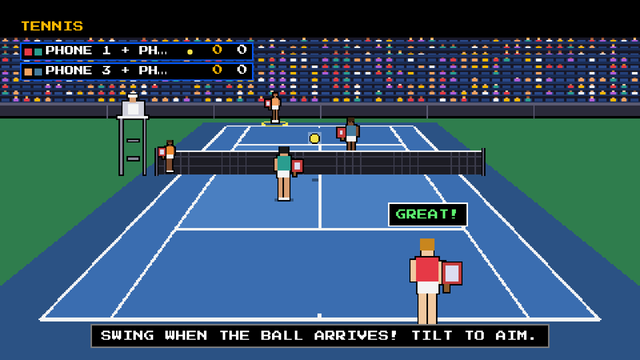
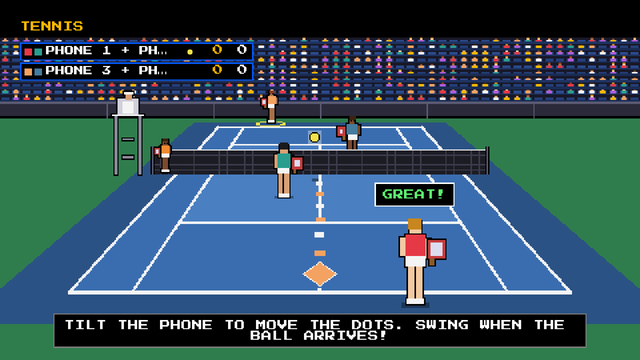
Tennis: keep players on screen, show a live aim line
The camera sits further back and the run target is limited, so a player
who hits from far out or far behind the baseline stays visible. The
hitter and the server get a line of dots in their color that follows the
tilt of the phone and ends in a diamond where the ball will go. The two
hint lines now mention the dots (strings to review).

Claude-Session: https://claude.ai/code/session_01TFZRSoXgdb1W1mAUKaeDEb

diff --git a/docs/games/tennis.md b/docs/games/tennis.md
@@ -35,7 +35,7 @@ Teams and court
 | REQ-TN-1 | 1 player: the player plays a rally with the ball machine (a friendly pink box at the far end). 2 players: 1 against 1. 3 players: 2 against 1 on the **regular court**, with the same court as 4 players (no smaller court for the single player). 4 players: 2 against 2. With 3 players the single player changes after every game, so that each player is alone in turn. Slots are put in teams by their order. | Done | tennis_rules, smoke_tennis |
 | REQ-TN-2 | The court is a doubles court seen from behind the near baseline, in perspective, with the real lines: outer doubles sidelines, inner singles sidelines, baselines, service lines, the center service line and center marks. The net, a referee tower with an umpire at the net, one ball kid at the net post and stands with seats behind the far end (blank ad boards). | Device | smoke_tennis, Test 25 |
 | REQ-TN-3 | The near team is drawn large and seen from behind, the far team is small and faces the camera. The ball has a thin black border and a shadow on the court so that its landing place can be seen. | Device | Test 25 |
-| REQ-TN-4 | A character runs by itself to the place where the ball will land. The player does not move it (REQ-GM-82). A ball is **in** when it lands inside the lines of the court that apply (singles lines for 1 against 1 and for the rally, doubles lines for 2 players on a side). | Done | tennis_rules |
+| REQ-TN-4 | A character runs by itself to the place where the ball will land. The player does not move it (REQ-GM-82). A character never leaves the picture: the court is seen from far enough behind the baseline that a player who hits from 2.2 m behind it or 5.6 m out is fully visible, and the run target is limited to that area (the swing still counts, the hit window is by time). A ball is **in** when it lands inside the lines of the court that apply (singles lines for 1 against 1 and for the rally, doubles lines for 2 players on a side). | Done | tennis_rules |
 
 Hits and serve
 
@@ -45,7 +45,13 @@ Hits and serve
 | REQ-TN-6 | The hit zone has 3 parts by time: early, green and late. A swing in the green part is a fast shot with sparks. An early or a late swing is a slow, high lob that stays in play (REQ-GM-83). The width of the green part comes from the difficulty (REQ-TN-18). | Device | tennis_rules, Test 25 |
 | REQ-TN-7 | Swing speed sets the power. The tilt of the phone at the moment of the hit sets left or right. A weak swing gives a short slow ball, a strong swing a long fast ball. A ball can be too long (out): a strong swing with a bad tilt may land out, a weak one never does on Easy. | Device | tennis_rules, Test 25 |
 | REQ-TN-9 | Serve: the server presses A to toss the ball up and then swings the phone **from top to bottom**, like a real serve. The swing counts when the ball is high (the serve window). The serve window is the time around the top of the toss (0.45 s each side). When the server does not swing in it, the ball falls (about 1 s after the toss) and the server tosses again (no fault, no point lost). A serve must land in the service box across the net. A serve that lands out is repeated once, then the point goes to the other team. | Device | tennis_rules, smoke_tennis, Test 25 |
-| REQ-TN-8 | Phone: the swing is the only action to hit. A tosses the ball (serve only). B does nothing. RECENTER recenters the tilt (REQ-GM-37). A hit buzzes the phone (30 ms, a fast shot 60 ms). The hint is one line at the bottom for the first 16 s: `tennis.hint_serve` while a serve is due, `tennis.hint_hit` in a rally, `tennis.hint_solo` with 1 player (rows of `strings.csv`, to be reviewed by the user). A hit buzzes the phone. | Device | smoke_tennis, Test 25 |
+| REQ-TN-8 | Phone: the swing is the only action to hit. A tosses the ball (serve only). B does nothing. RECENTER recenters the tilt (REQ-GM-37). A hit buzzes the phone (30 ms, a fast shot 60 ms). The hint is one line at the bottom for the first 16 s: `tennis.hint_serve` while a serve is due, `tennis.hint_hit` in a rally (both tell the player to tilt to move the dots, REQ-TN-21), `tennis.hint_solo` with 1 player (rows of `strings.csv`, to be reviewed by the user). A hit buzzes the phone. | Device | smoke_tennis, Test 25 |
+
+Aim
+
+| ID | Requirement | Status | Check |
+|----|-------------|--------|-------|
+| REQ-TN-21 | The aim is shown on the TV before the swing: while a player is about to serve (from the start of the serve) or is the hitter of a ball that arrives (from 1.2 s before the contact), a line of dots in the color of that player goes from the net to a diamond on the other side of the court, at the place where the ball will go left or right. It moves live with the tilt of the phone (right side down moves it to the player's right) and it uses the same calculation as the hit (`aim_x()`), so the ball goes where the diamond was at the swing (a lob that is not green adds a random shift). The serve line ends at the service line, a rally line near the far baseline. On Easy it stays inside the lines. Power sets how deep the ball goes and is not shown. The phone shows nothing for it (a phone line would need a protocol change). | Device | tennis_rules, Test 25 |
 
 Scoring
 

diff --git a/docs/MANUAL_TESTS.md b/docs/MANUAL_TESTS.md
@@ -1033,7 +1033,8 @@ New game (2026-10-17). It was only tested with made-up sensor values. Every numb
 3. **Serve.** Check: the hint "Press A to toss. Then swing down to serve!" shows, A of the server tosses the ball, a swing from top to bottom at the top of the toss serves, and the phone buzzes. Try a swing too early, too late and from left to right. Check: a swing that is not a serve does nothing, and when the ball falls the server tosses again.
 4. **Return.** Check: the ball glows when it is your turn, the ring on the court shows the place of the hit (yellow, green in the green part), the character runs by itself, and a swing near the ring returns the ball. Write down the real delay between the swing and the hit.
 5. **Timing.** Swing in the green part, too early and too late. Check: green gives a fast shot with "GREAT!", too early and too late give a slow high lob that stays in play. Write down if the green part is too short or too long for each difficulty.
-6. **Power and aim.** Swing soft and hard, and tilt the phone to the left and to the right at the hit. Check: a hard swing is faster and longer, a soft swing is short, the tilt sends the ball to the matching side (also for the far team, mirrored), and a strong swing may go out on Medium and Hard but not on Easy.
+6. **Power and aim.** Swing soft and hard, and tilt the phone to the left and to the right at the hit. Check: a hard swing is faster and longer, a soft swing is short, the tilt sends the ball to the matching side (also for the far team, mirrored), and a strong swing may go out on Medium and Hard but not on Easy. **New (2026-10-18, REQ-TN-21):** the line of dots in your color moves left and right with the tilt before you swing (for the serve and for every return), the ball goes where the diamond was, and a player can tell what the dots mean from the hint line alone.
+6b. **Far out and far behind (REQ-TN-4).** Aim wide and long with a hard swing so the other player has to run to the side line and behind the baseline (also with 4 phones). Check: the character stays fully on the screen (not cut at the side or the bottom) and the swing still counts. Write down any ball or character that still leaves the picture.
 7. **Real scoring.** Play a whole match with 2 phones. Check: 0, 15, 30, 40, deuce and advantage, the first to 3 games wins, the server changes after every game, the banners (point, game, fault, out, net) match what happened, and the result menu names the winner. Write down how long the match took.
 8. **Quick scoring.** Set Scoring to Quick and play. Check: the first to 5 points wins, the server changes every 2 points.
 9. Play with 3 phones (2 against 1 on the regular court, the single player changes after every game) and with 4 phones (2 against 2, the pairs take turns). Check: the court size is the same, the names and colors on the scoreboard are right, and each phone shows its own place.
@@ -1052,7 +1053,8 @@ New game (2026-10-17). It was only tested with made-up sensor values. Every numb
 | 3 | Video of a toss and a serve; note on swings that did nothing | Not run | | | |
 | 4 | Note: the delay swing to hit in ms | Not run | | | |
 | 5 | Video of a green, an early and a late swing; note on the green part | Not run | | | |
-| 6 | Video of soft, hard, left and right shots; note on the tilt | Not run | | | |
+| 6 | Video of soft, hard, left and right shots; note on the tilt and on the line of dots | Not run | | | |
+| 6b | Video of a player who runs far out and far behind the baseline | Not run | | | |
 | 7 | Photo of the result menu; note: the time of the match | Not run | | | |
 | 8 | Note: Quick scoring | Not run | | | |
 | 9 | Photo of the scoreboard with 3 and 4 phones | Not run | | | |
